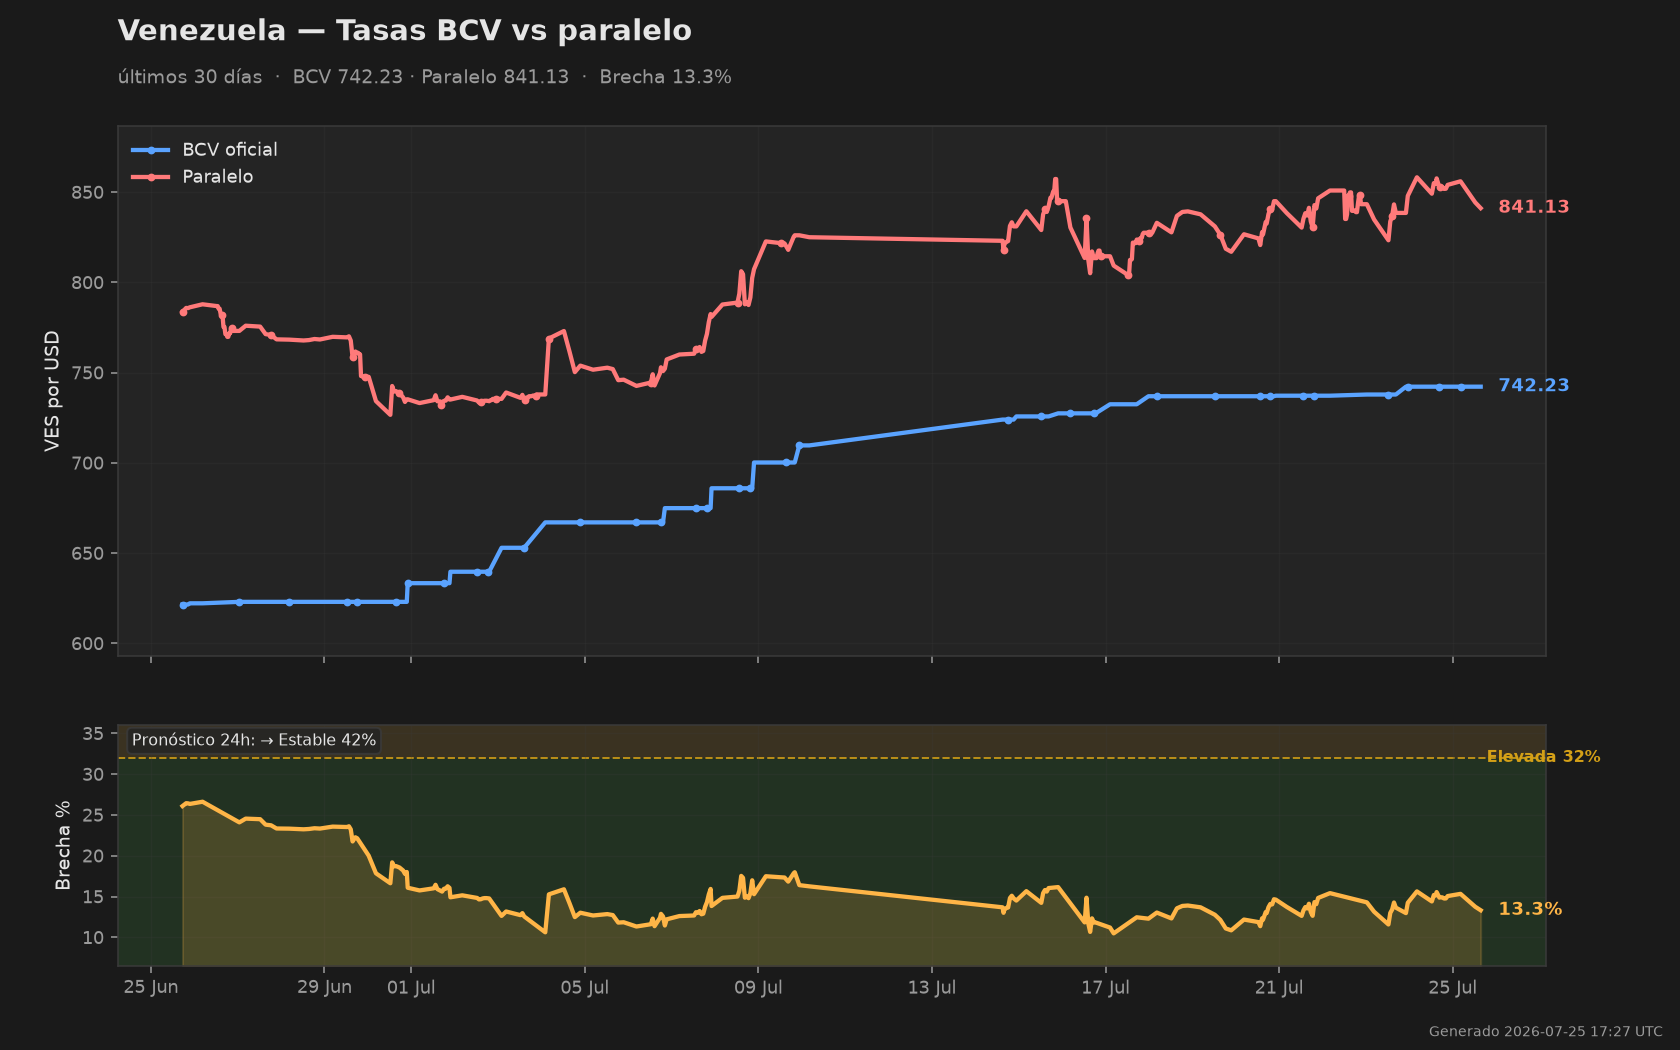
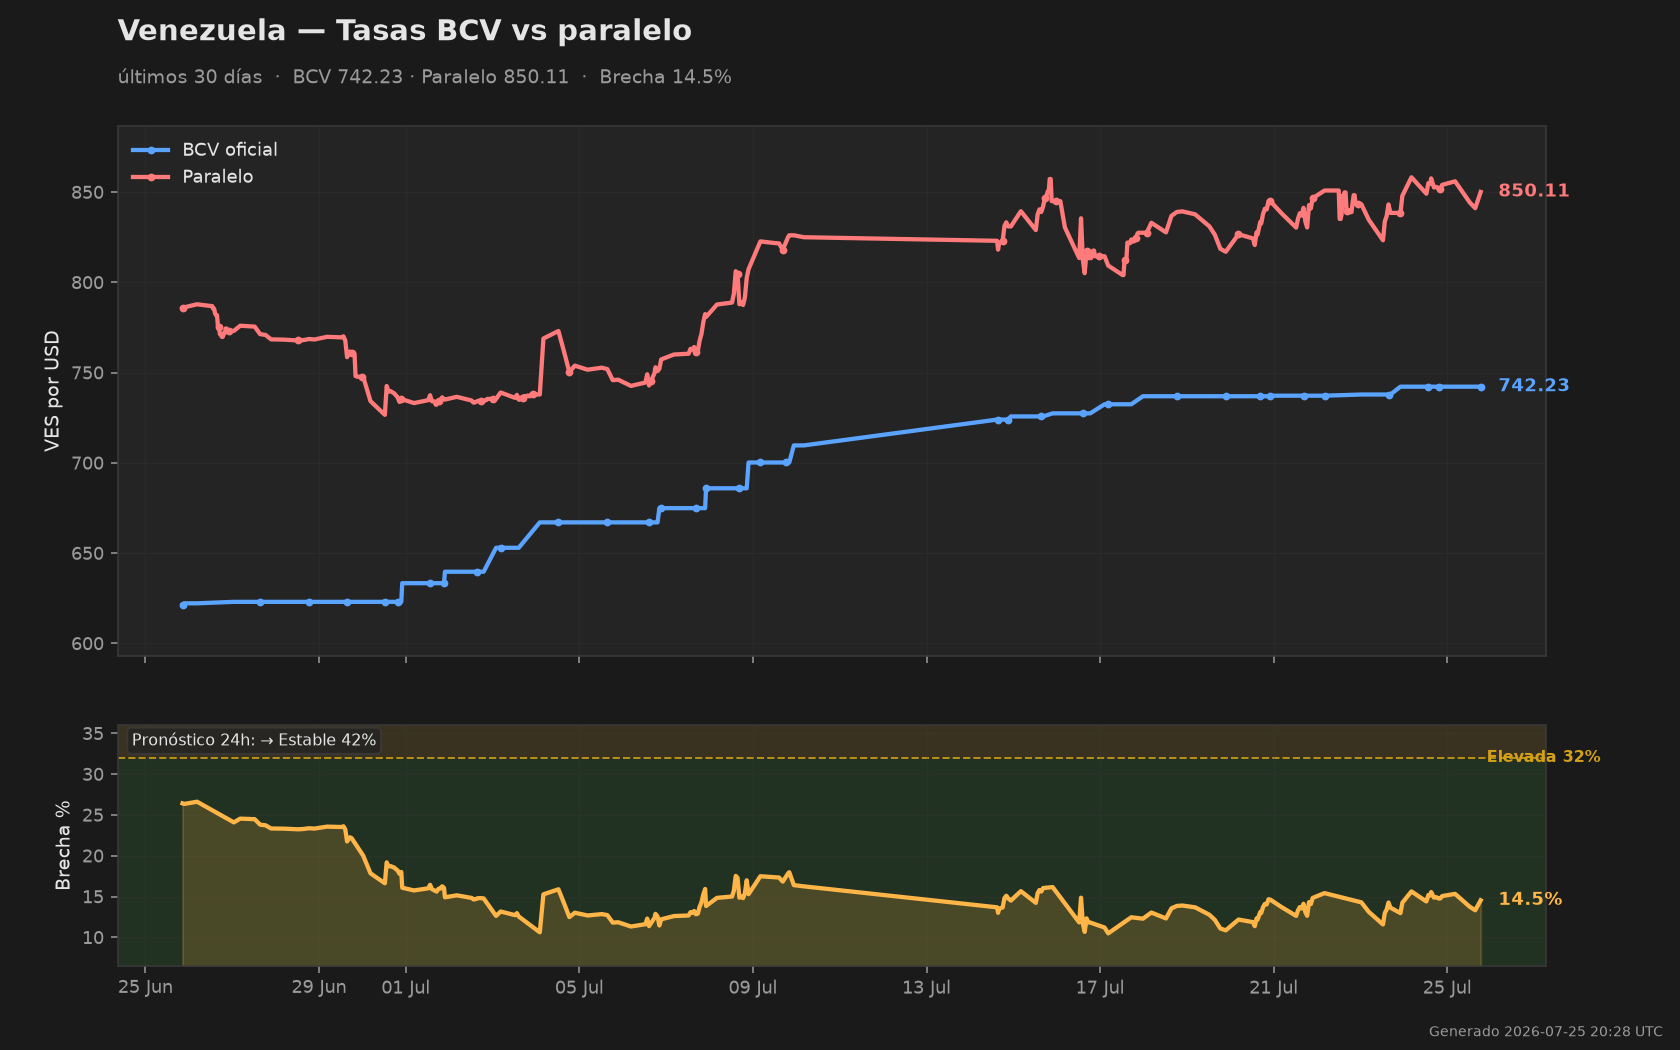
Dashboard update 2026-07-25 20:28 UTC

diff --git a/README.md b/README.md
@@ -11,11 +11,11 @@
 | Metric · Métrica | Value · Valor |
 |---|---|
 | BCV Oficial | **742.23** VES/USD |
-| Paralelo | **841.13** VES/USD |
-| Brecha · Spread | **13.3%** |
-| Binance P2P USDT/VES | **871.55** VES/USDT (+3.6% vs paralelo) |
+| Paralelo | **850.11** VES/USD |
+| Brecha · Spread | **14.5%** |
+| Binance P2P USDT/VES | **870.62** VES/USDT (+2.4% vs paralelo) |
 | **Pronóstico 24h · 24h Forecast** | **↑ Ensanchando · Widening (40%)** |
-| Actualizado · Updated | 2026-07-25 15:26 UTC |
+| Actualizado · Updated | 2026-07-25 18:28 UTC |
 
 ![Venezuela BCV vs parallel rate — last 30 days](data/chart.png)
 
